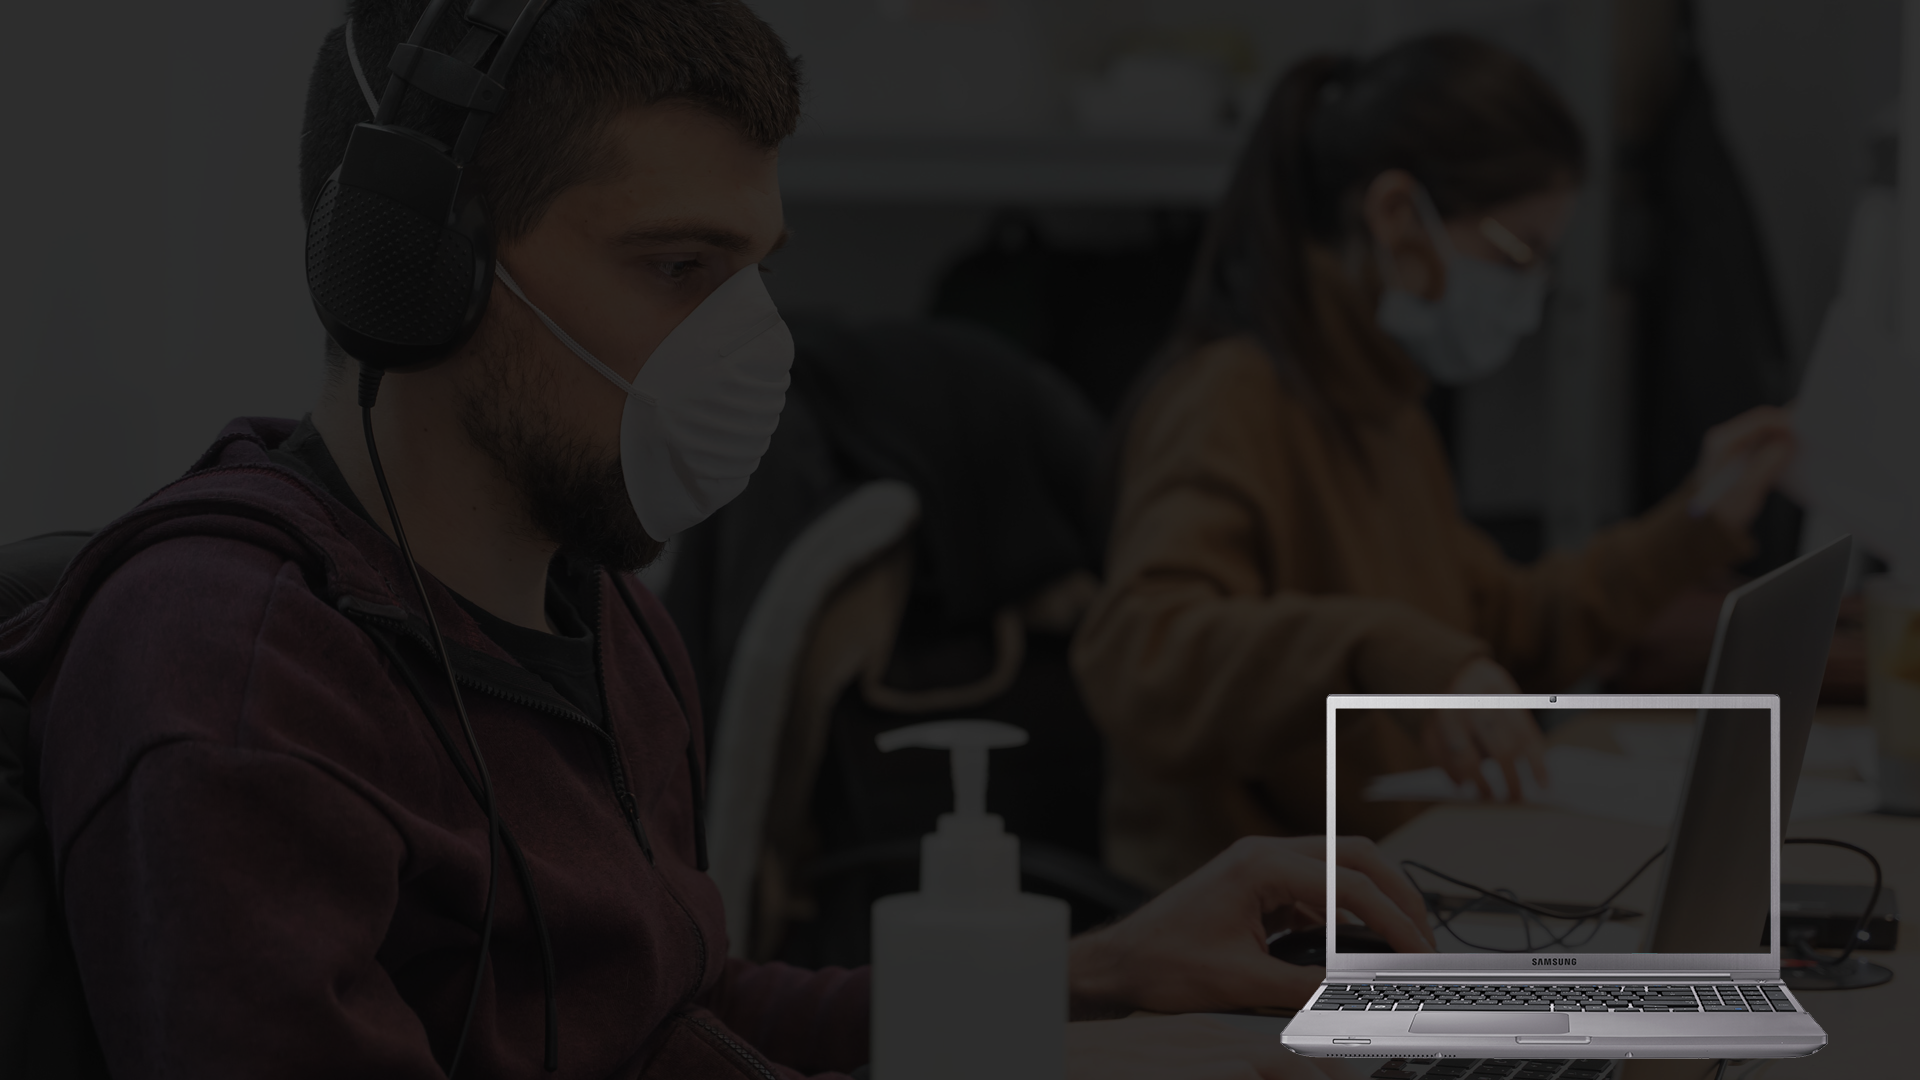
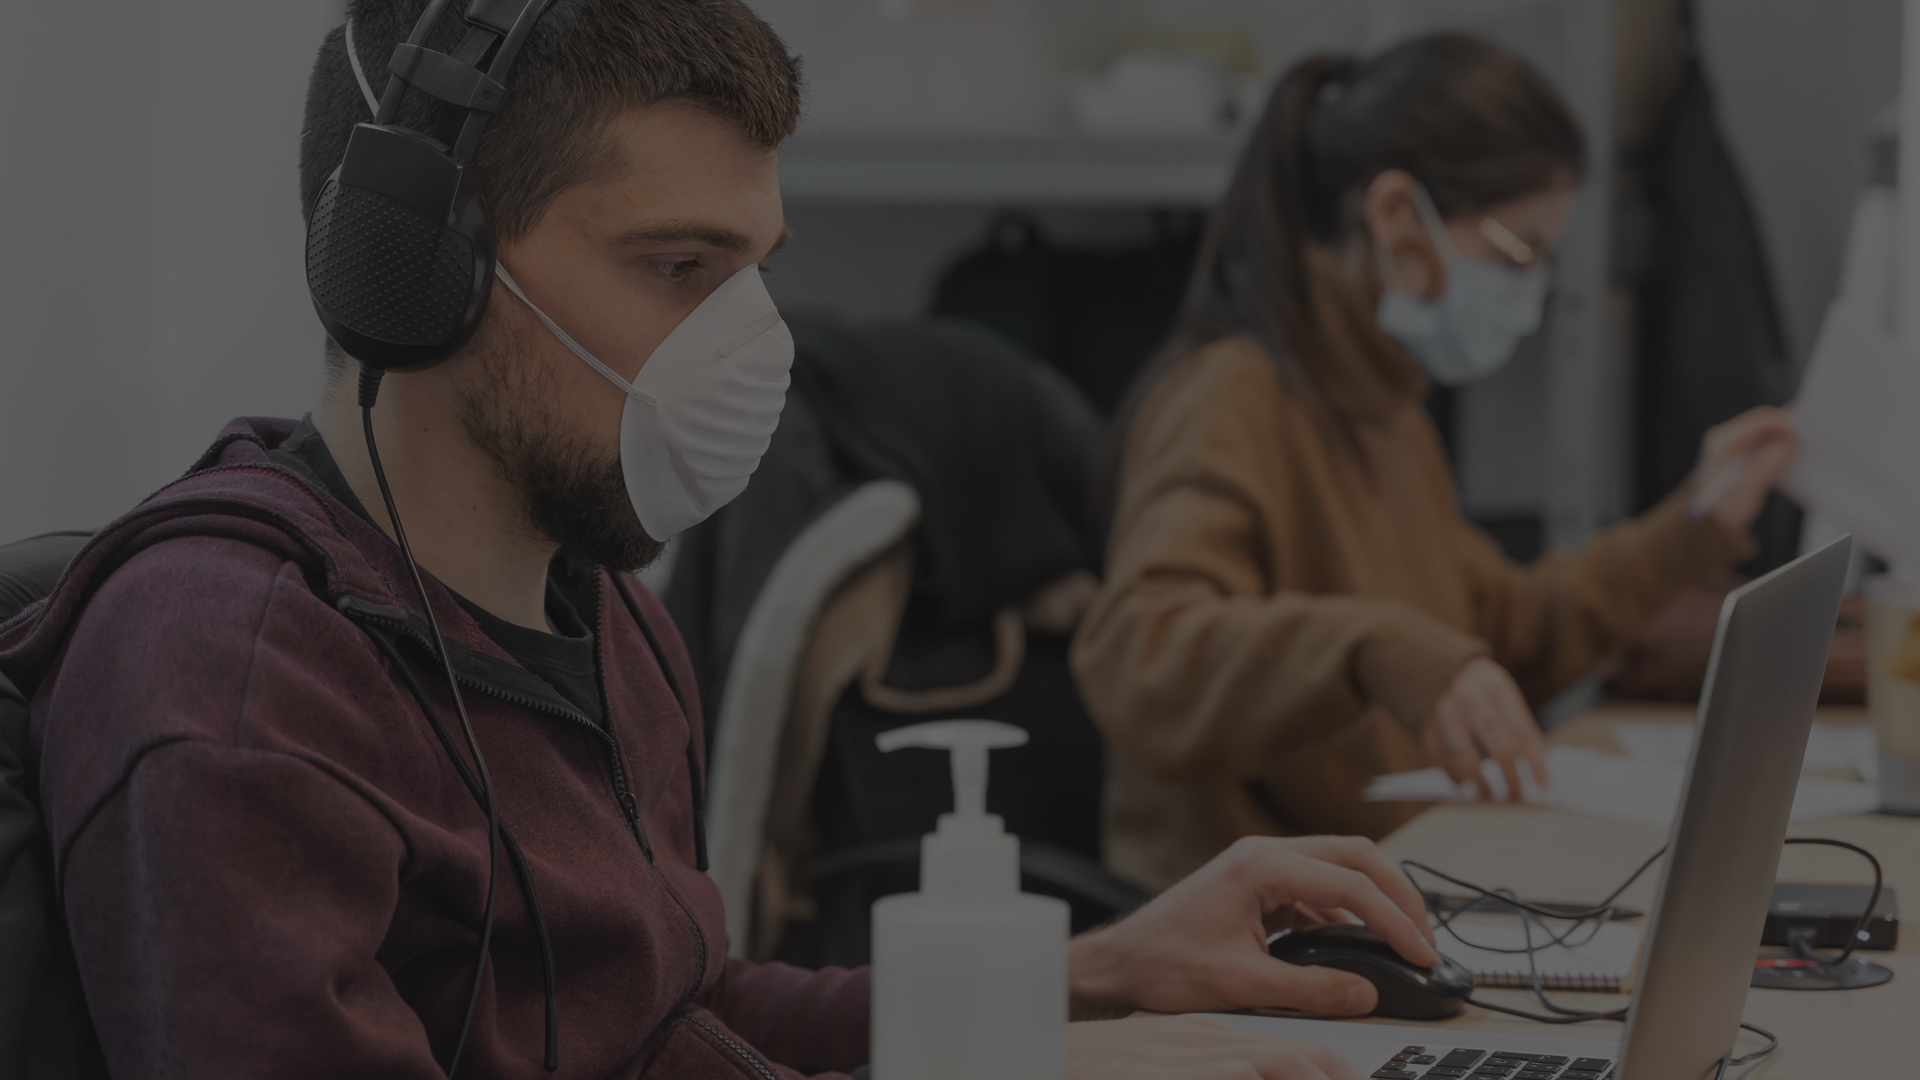
alterando o layout da tabela

diff --git a/style.css b/style.css
@@ -6,8 +6,9 @@ body{
 .navbar{
     background: rgba(5, 5, 5, 0.82);
     text-align: center;
-    width: 99%;
-    padding: 7px;
+    width: 100%;
+    padding-top: 7px;
+    padding-bottom: 7px;
     position: fixed;
     z-index: 15;
 }
@@ -22,7 +23,6 @@ body{
 }
 
 .banner{
-      background-image: url(img/banner.png);
     width: 100%;
     height: 700px;
     -webkit-background-size: cover;
@@ -30,12 +30,14 @@ body{
   -o-background-size: cover;
   background-size: cover;
 }
+.banner img{
+    width: 100%;
+}
 .video{
-    float: right;
-    margin-right: 8%;
-    margin-top: 37%;
-    float: right
-    position: absolute;
+    width:100%;
+    margin-top: 5%;
+    text-align: center;
+    margin-bottom: 5%;
 }
 #casosBR,#tabelaRJ,#mapa{
     width: 100%;
@@ -52,14 +54,16 @@ table{
     width: 100%;
     margin-bottom: 20%;
 }
-#alter tr{ /* Muda a cor do TR */
-	background: #3e312c;
+#alter th{ /* Muda a cor do Th */
+	background: #5a1d05;
     color: white;
-	} 
-#alter td {
-	background: #522525; /* Muda a cor do TD */
-    color: white;
+    padding: 5px;
 	}
+#alter td{ /* Muda a cor do Td */
+	background: #33150a;
+    color: white;
+    
+	} 
 .footer{
     text-align: center;
     color: white;

diff --git a/CovidAPI.js b/CovidAPI.js
@@ -10,11 +10,11 @@ function DadosEstados() {
     .then(function (data) {
       console.log(data);
       return data.data.map(function (estados) {
-        document.getElementById("estados").innerHTML += estados.state + "</br>";
-        document.getElementById("casos").innerHTML += estados.cases + "</br>";
-        document.getElementById("mortes").innerHTML += estados.deaths + "</br>";
-        document.getElementById("horas").innerHTML += estados.datetime.slice(0, 10) + "</br>";
-      });
+        document.getElementById("estados").innerHTML += "<td>" + estados.state +"</td>"+ "<hr/>";
+        document.getElementById("casos").innerHTML += "<td>" + estados.cases + "</td>" +  "<hr/>";
+        document.getElementById("mortes").innerHTML += "<td>" + estados.deaths + "</td>" +  "<hr/>";
+        document.getElementById("horas").innerHTML += "<td>" + estados.datetime.slice(0, 10) + "</td>" +  "<hr/>";
+      }); 
     })
     .catch((err) => console.error(err));
 }
@@ -54,6 +54,7 @@ function DadosRJ() {
     })
     .catch((err) => console.error(err));
 }
+
 
 DadosEstados();
 DadosRJ();

diff --git a/index.html b/index.html
@@ -28,21 +28,24 @@
 
 <section id="home">
     <div class="banner">
-        <div class="video">
-                  <iframe width="280" height="160" src="https://www.youtube.com/embed/NMre6IAAAiU" frameborder="0" allow="accelerometer; autoplay; clipboard-write; encrypted-media; gyroscope; picture-in-picture" allowfullscreen></iframe>
-           </div>
+       <img src="img/banner.png" alt="">
     </div>    
 </section>
 <section id="casosBR">
-    
+     <div class="video">
+                <h2>REGISTRO COVID-19 MUNDIAL</h2>
+                 <iframe width="50%" height="400" src="https://www.youtube.com/embed/NMre6IAAAiU" frameborder="0" allow="accelerometer; autoplay; clipboard-write; encrypted-media; gyroscope; picture-in-picture" allowfullscreen></iframe>
+           </div>
     
 	<h2>Casos COVID-19 BRASIL</h2>
 	<table border cellpadding="5px" cellspacing="0" ID="alter">
 		<thead>
+		    <tr>
 			<th>Estados</th>
 			<th>Casos</th>
 			<th>Mortes</th>
             <th>Atualizados</th>
+            </tr>
 		</thead>
 		<tbody>
 			<tr>
